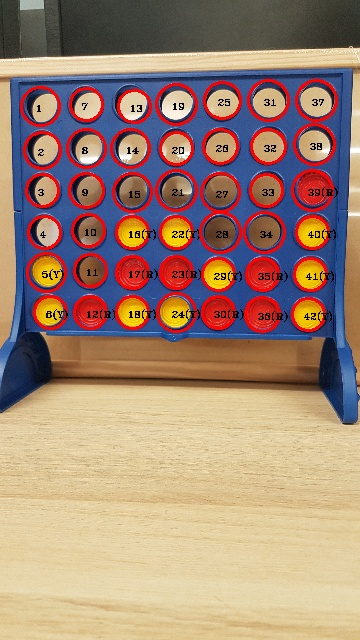
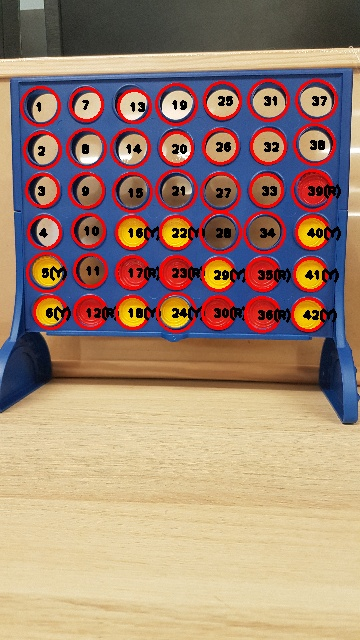
Playes around with text font size within circles

diff --git a/Tune Hough Circles.py b/Tune Hough Circles.py
@@ -1,19 +1,18 @@
 import cv2
 import numpy as np
 
-
-
 def ColorNameFromHSV(image,y,x):
     # Create a table of HSV colour values and associated name as a lookup table
+    # Only really interested in Yellow and Red
     #ColorTable = [[14,23, "Orange"],[25,35, "Yellow"],[55,65,"Green"], [115,125,"Blue"], [175,5,"Red"]    ]
     ColorTable = [[25, 35, "Yellow"], [175, 5, "Red"]]
 
-    # get the HSV color
+    # get the HSV color tuple for the specified coordinate
     colorHSV = image[y,x]
     hue=colorHSV[0]
     saturation=colorHSV[1]
 
-    # Check that we have a strong coliur i.e. satuartion is great than 25
+    # Check that we have a strong coliur i.e. saturation is great than 25 to make sure we have a strong colour
     if saturation < 25:
         return"Unknown"
 
@@ -25,10 +24,11 @@ def ColorNameFromHSV(image,y,x):
      # Red is a special condition >175 but < than 5
     if hue >= 175 or hue <= 5:
         return("Red")
+    # If not in the lookup table return unknown
     return("Unknown")
 
 # Read in colour image in BGR colour space
-connect4BGR = cv2.imread("images/connect4 image 2.jpg")
+connect4BGR = cv2.imread("images/connect4 image 5.jpg")
 #print(connect4BGR.shape)
 #print(connect4BGR.size)
 #print(connect4BGR.dtype)
@@ -44,6 +44,7 @@ connect4BGR = cv2.resize(connect4BGR, (360, 640))
 connect4HSV = cv2.cvtColor(connect4BGR,cv2.COLOR_BGR2HSV)
 
 # Blur the image. This has the effect of hiding some small features such as the circle shapes on the counters which we don't want to detect
+# Note. I've experiemented with different values for the blur function and (5,5),2,2 seems the most reliable
 connect4_blurred = cv2.GaussianBlur(connect4BGR,(5,5),2,2)
 # Write blurred image
 cv2.imwrite("images/Connect4_blurred.jpg", connect4_blurred)
@@ -96,7 +97,7 @@ while guess_accumulator_array_threshold > 1 and breakout == False:
             circles = cv2.HoughCircles(gray,
                 cv2.HOUGH_GRADIENT,
                 dp=guess_dp,               #resolution of accumulator array.
-                minDist=20,                #chnaged from 100 to 20 number of pixels center of circles should be from each other, hardcode
+                minDist=20,                #changed from 100 to 20 number of pixels center of circles should be from each other, hardcode
                 param1=50,
                 param2=guess_accumulator_array_threshold,
                 minRadius=(guess_radius-3),    #HoughCircles will look for circles at minimum this size
@@ -114,8 +115,8 @@ while guess_accumulator_array_threshold > 1 and breakout == False:
                     print("Circles sorted: ", circles2)
                     circleLog.append(np.copy(circles2))
                     #print("CircleLog: ", circleLog)
-                    #print("dp = %f" % guess_dp)
-                    #print("param2 : %f" % guess_accumulator_array_threshold)
+                    print("dp = %f" % guess_dp)
+                    print("param2 : %f" % guess_accumulator_array_threshold)
                     print("min radius :  %f" % (guess_radius-3))
                     print("max radius : %f" % (guess_radius+3))
                     breakout = True
@@ -132,9 +133,15 @@ while guess_accumulator_array_threshold > 1 and breakout == False:
 
 #Return the circleLog with the highest accumulator threshold
 
+# Check we've found some circles and if not exit the program
+print("circleLog: ", circleLog)
+if len(circleLog) == 0 :
+    print("No circles detected")
+    exit(0)
+
 #lets try and reshape the circleLog[0] into a 6 x 7 x 3 numpy array
 circleLog[0] = np.reshape(circleLog[0],(7,6,3))
-#print("circleLog: ", circleLog)
+
 #print("length of circleLog[0]: ", len(circleLog[0]))
 #print("length of cicleLog: ", len(circleLog))
 
